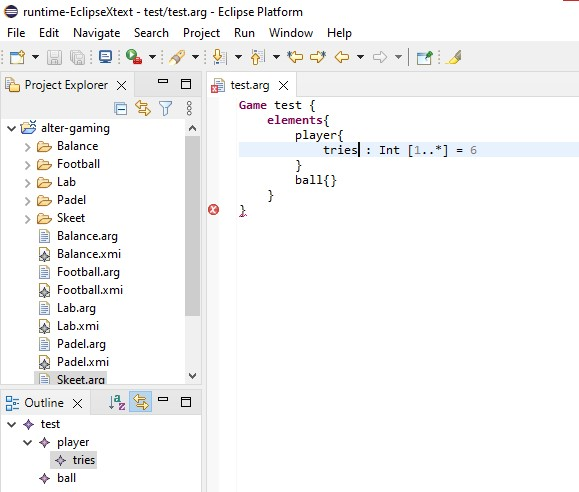
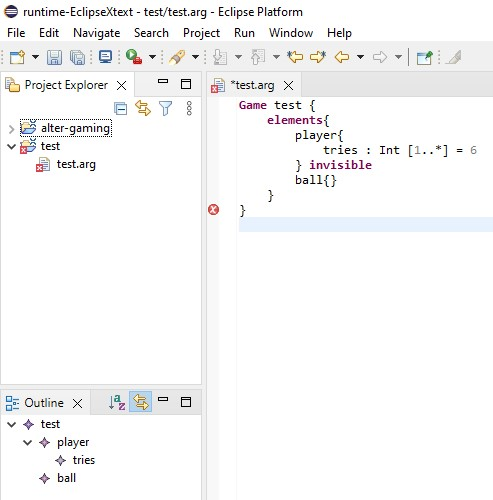
Add graphic

diff --git a/argdsl.html b/argdsl.html
@@ -89,12 +89,31 @@
                     <p class="lead">Each element is described by a name and attributes. These attributes are described with a name, following with type, cardinality and a default value. The attributes are optional,
                       which in that case, the object must be empty.
                     </p>
+                    <p class="lead">Lastly, if you want an element to not be represented graphically, you can indicate it with a "Invisible" word behind the attributes.</p>
                   </div>
-                </div>
-                <div class="row align-items-start">
-                  <div class="col-md-6 order-md-1">
-                    <p class="figure-caption text-center">Domain.</p>
-                    <img src="./figures/tutorialDomain.jpg" alt="tutorialDomain" height="500" width="500" class="bd-placeholder-img bd-placeholder-img-lg featurette-image img-fluid mx-auto" width="500" height="500" xmlns="http://www.w3.org/2000/svg" preserveAspectRatio="xMidYMid slice" focusable="false" role="img">
+                  <div class="row align-items-start">
+                    <div class="col-md-6 order-md-1">
+                      <p class="figure-caption text-center">Domain.</p>
+                      <img src="./figures/tutorialDomain.jpg" alt="tutorialDomain" height="500" width="500" class="bd-placeholder-img bd-placeholder-img-lg featurette-image img-fluid mx-auto" width="500" height="500" xmlns="http://www.w3.org/2000/svg" preserveAspectRatio="xMidYMid slice" focusable="false" role="img">
+                    </div>
+                  </div>
+                  <div class="col-md">
+                    <p class="lead">Next, we will configure the graphical representation. Outside the Game object, we put the Graphic object. Inside we indicate the element defined in the domain, following with the graphical versions and constraints.</p>
+                    <p class="lead">The graphical versions consist in a pair with a name of the version and a valid URL of the 3D object. You can put as many pairs as you want.</p>
+                    <p class="lead">The constraints goal is to edit the following features of the AR objects:</p>
+                    <ul>
+                      <li>plane: It allows configuring whether the AR object can be placed only on horizontal planes, only on vertical planes, on any kind of plane, or anywhere</li>
+                      <li>overlaps: It controls if the AR object can overlap other objects.</li>
+                      <li>sizemin and sizemax: It determines the initial, minimum and maximum size that the object can take during the game. If their value is 1.0, then the default size of the SCN object is applied</li>
+                      <li>xVariation, yVariation, zVariation : Are used to restrict the distance each object can be displaced from its original position </li>
+                      <li>rotation: It permits rotating the object horizontally</li>
+                    </ul>
+                  </div>
+                  <div class="row align-items-start">
+                    <div class="col-md-6 order-md-1">
+                      <p class="figure-caption text-center">Graphic.</p>
+                      <img src="./figures/tutorialGraph.jpg" alt="tutorialGraph" height="500" width="500" class="bd-placeholder-img bd-placeholder-img-lg featurette-image img-fluid mx-auto" width="500" height="500" xmlns="http://www.w3.org/2000/svg" preserveAspectRatio="xMidYMid slice" focusable="false" role="img">
+                    </div>
                   </div>
                 </div>
               </div>
